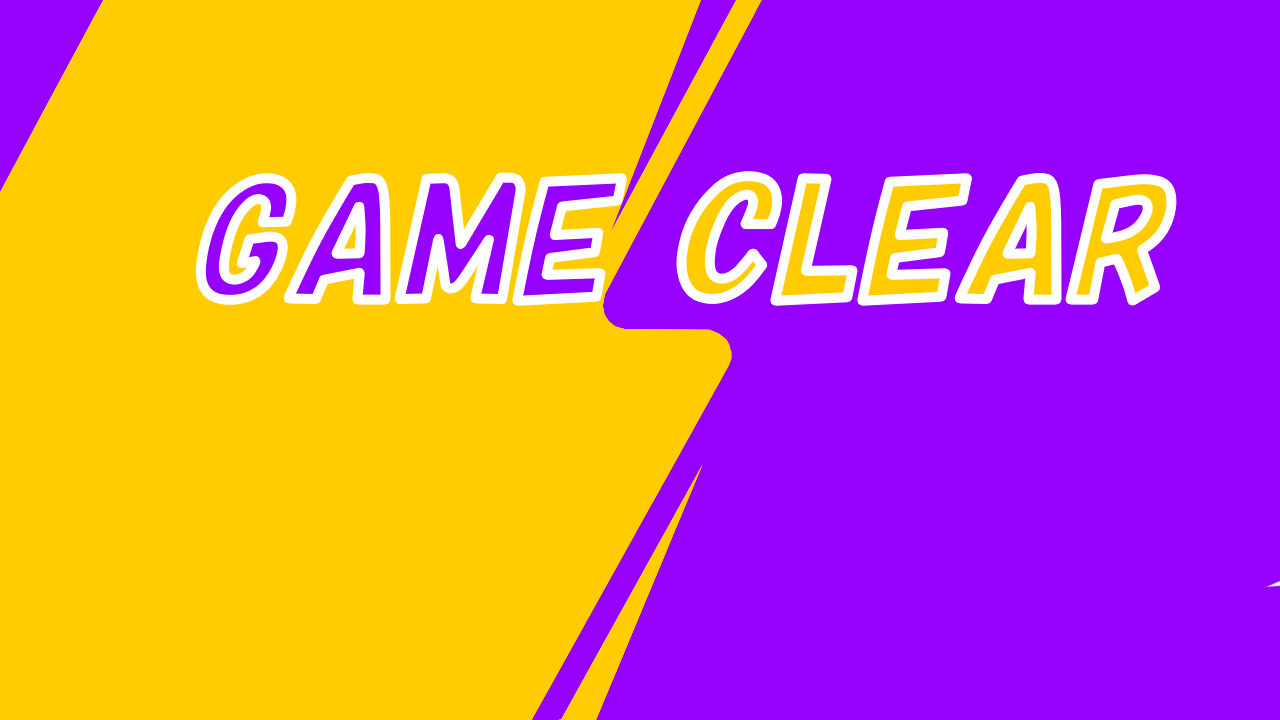
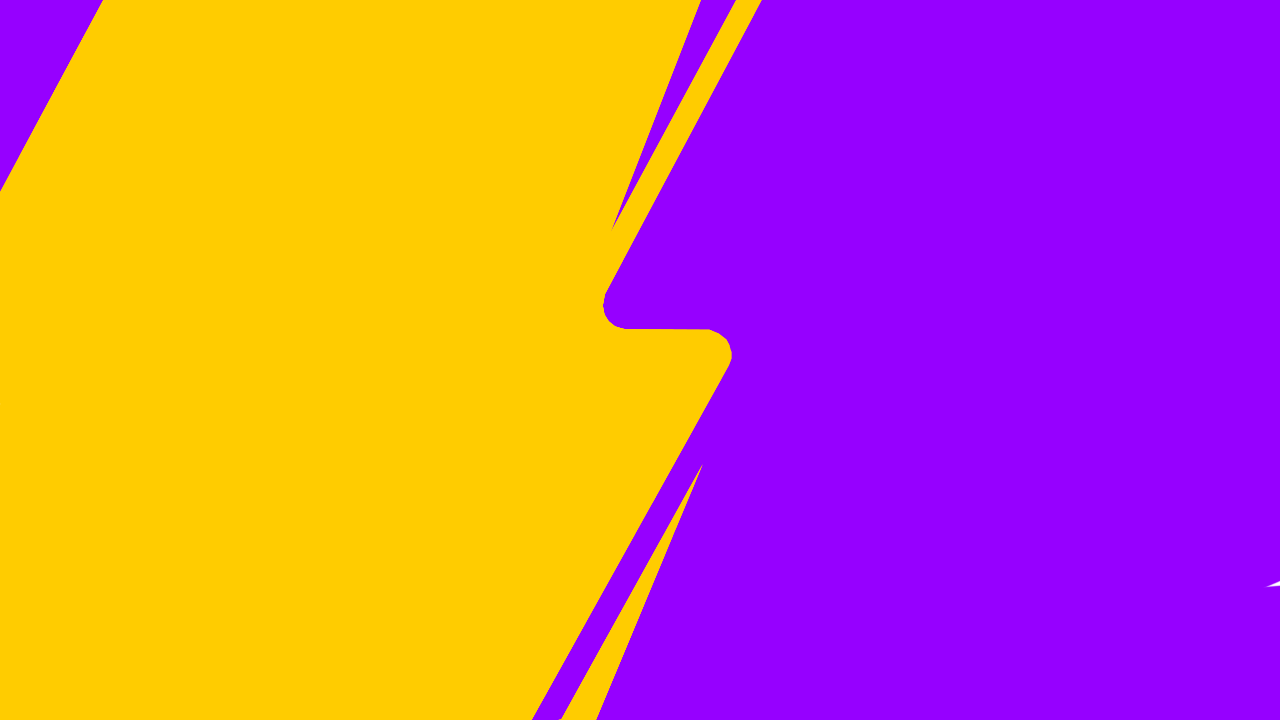
结束界面修改

Changed region(s): [[0.5312, 0.2139, 0.9375, 0.4278], [0.1562, 0.2444, 0.5, 0.4278]]

diff --git a/DirectXGame/scene/ResultScene.cpp b/DirectXGame/scene/ResultScene.cpp
@@ -23,16 +23,20 @@ void ResultScene::Initialize() {
 
     isSceneEnd_ = false;
     score_ = 0;
+    isMouseOverTitle_ = false;
 
     LoadTextures();
 }
 
 void ResultScene::LoadTextures() {
     // 加载结果背景图片
-    resultTextureHandle_ = TextureManager::Load("result/resultBackground.png");
+    resultBackgroundTextureHandle_ = TextureManager::Load("result/resultBackground.png");
    
+    resultBackgroundSprite_ = Sprite::Create(resultBackgroundTextureHandle_, { 0, 0 });
+   
+
+    resultTextureHandle_ = TextureManager::Load("result/resultTitle.png");
     resultSprite_ = Sprite::Create(resultTextureHandle_, { 0, 0 });
-   
 
     //// 加载重新开始按钮图片
     //retryTextureHandle_ = TextureManager::Load("result/retryButton.png");
@@ -46,9 +50,9 @@ void ResultScene::LoadTextures() {
     // 加载返回标题按钮图片
     titleTextureHandle_ = TextureManager::Load("result/titleButton.png");
     if (titleTextureHandle_ != 0) {
-        titleSprite_ = Sprite::Create(titleTextureHandle_, { 440, 520 }); // 按钮位置
+        titleSprite_ = Sprite::Create(titleTextureHandle_,  buttonPosition_ ); // 按钮位置
         if (titleSprite_) {
-            titleSprite_->SetSize({ 400, 100 }); // 按钮大小
+            titleSprite_->SetSize(normalButtonSize_); // 按钮大小
         }
     }
 }
@@ -56,13 +60,19 @@ void ResultScene::LoadTextures() {
 void ResultScene::Update() {
     if (isSceneEnd_) return;
 
-    // 获取鼠标位置
-    Vector2 mousePos = input_->GetMousePosition();
+    frameCount_++;
+
+    // 上下に揺らす（sin波でY座標を変更）
+    float offsetY = std::sin(frameCount_ * 0.05f) * 10.0f;
+    resultSprite_->SetPosition({ 20, 20 + offsetY });
+  
+
+    UpdateButtonState();
 
     // 检测鼠标点击
     if (input_->IsTriggerMouse(0)) {
         
-        if (IsMouseOverTitle(mousePos)) {
+        if (isMouseOverTitle_) {
             // 返回标题
             isSceneEnd_ = true;
            
@@ -72,11 +82,46 @@ void ResultScene::Update() {
     }
 }
 
+
+// 新增：更新按钮状态方法
+void ResultScene::UpdateButtonState() {
+    // 获取鼠标位置
+    Vector2 mousePos = input_->GetMousePosition();
+
+    // 检测鼠标是否在按钮上
+    bool wasMouseOver = isMouseOverTitle_;
+    isMouseOverTitle_ = IsMouseOverTitle(mousePos);
+
+    // 如果状态发生变化，更新按钮尺寸
+    if (isMouseOverTitle_ != wasMouseOver && titleSprite_) {
+        if (isMouseOverTitle_) {
+            // 鼠标进入：放大按钮
+            titleSprite_->SetSize(hoverButtonSize_);
+
+            // 调整位置保持中心点不变（可选）
+            Vector2 sizeDiff = {
+                (hoverButtonSize_.x - normalButtonSize_.x) / 2,
+                (hoverButtonSize_.y - normalButtonSize_.y) / 2
+            };
+            titleSprite_->SetPosition({
+                buttonPosition_.x - sizeDiff.x,
+                buttonPosition_.y - sizeDiff.y
+                });
+        }
+        else {
+            // 鼠标离开：恢复正常尺寸
+            titleSprite_->SetSize(normalButtonSize_);
+            titleSprite_->SetPosition(buttonPosition_);
+        }
+    }
+}
+
 void ResultScene::Draw() {
     ID3D12GraphicsCommandList* commandList = dxCommon_->GetCommandList();
     Sprite::PreDraw(commandList);
     // 绘制结果背景
-  
+    resultBackgroundSprite_->Draw();
+
     resultSprite_->Draw();
     
 
@@ -94,6 +139,7 @@ void ResultScene::Draw() {
 bool ResultScene::IsMouseOverTitle(const Vector2& mousePos) {
     if (!titleSprite_) return false;
 
+    // 使用当前实际的精灵尺寸和位置进行检测
     Vector2 position = titleSprite_->GetPosition();
     Vector2 size = titleSprite_->GetSize();
 

diff --git a/DirectXGame/scene/ResultScene.h b/DirectXGame/scene/ResultScene.h
@@ -22,6 +22,9 @@ private:
     bool isSceneEnd_ = false;
     int score_ = 0;
 
+    uint32_t resultBackgroundTextureHandle_ = 0;
+    Sprite* resultBackgroundSprite_ = nullptr;
+
     uint32_t resultTextureHandle_ = 0;
     Sprite* resultSprite_ = nullptr;
 
@@ -31,7 +34,17 @@ private:
     uint32_t titleTextureHandle_ = 0;
     Sprite* titleSprite_ = nullptr;
 
+    int frameCount_ = 0;
+
+    // 新增：按钮状态相关变量
+    Vector2 normalButtonSize_ = { 200.0f, 90.0f };      // 正常尺寸
+    Vector2 hoverButtonSize_ = { 220.0f, 99.0f };       // 悬停时放大尺寸（约10%）
+    Vector2 buttonPosition_ = { 540.0f, 520.0f };       // 按钮位置
+    bool isMouseOverTitle_ = false;                      // 鼠标是否在按钮上
+
     void LoadTextures();
 
     bool IsMouseOverTitle(const Vector2& mousePos);
+
+    void UpdateButtonState();  // 新增：更新按钮状态
 };

diff --git a/DirectXGame/scene/GameScene.cpp b/DirectXGame/scene/GameScene.cpp
@@ -1,6 +1,7 @@
 #include "GameScene.h"
 #include <cassert>
 
+
 GameScene::GameScene() {}
 
 GameScene::~GameScene() {
@@ -37,6 +38,7 @@ GameScene::~GameScene() {
 void GameScene::Initialize() {
 
 	dxCommon_ = DirectXCommon::GetInstance();
+	
 	input_ = Input::GetInstance();
 	camera_.Initialize();
 
@@ -244,6 +246,9 @@ void GameScene::Update() {
 		break;
 	}
 	camera_.UpdateMatrix();
+	
+
+	
 }
 
 void GameScene::UpdateTutorial() {
@@ -397,6 +402,8 @@ void GameScene::Draw() {
 	if (gameUI_) {
 		gameUI_->Draw();
 	}
+	
+	
 	// スプライト描画後処理
 	Sprite::PostDraw();
 
@@ -448,5 +455,7 @@ void GameScene::ReturnToTitle() {
 	returnToTitle_ = true;
 	// 结束当前场景，返回主循环的标题状态
 }
+
+
 
 

diff --git a/DirectXGame/scene/GameScene.h b/DirectXGame/scene/GameScene.h
@@ -59,6 +59,7 @@ public: // メンバ関数
 	int GetLevelNumber() const { return levelNumber_; }
 
 private: // メンバ変数
+	
 	DirectXCommon* dxCommon_ = nullptr;
 	Input* input_ = nullptr;
 	Stage* stage_ = nullptr;
